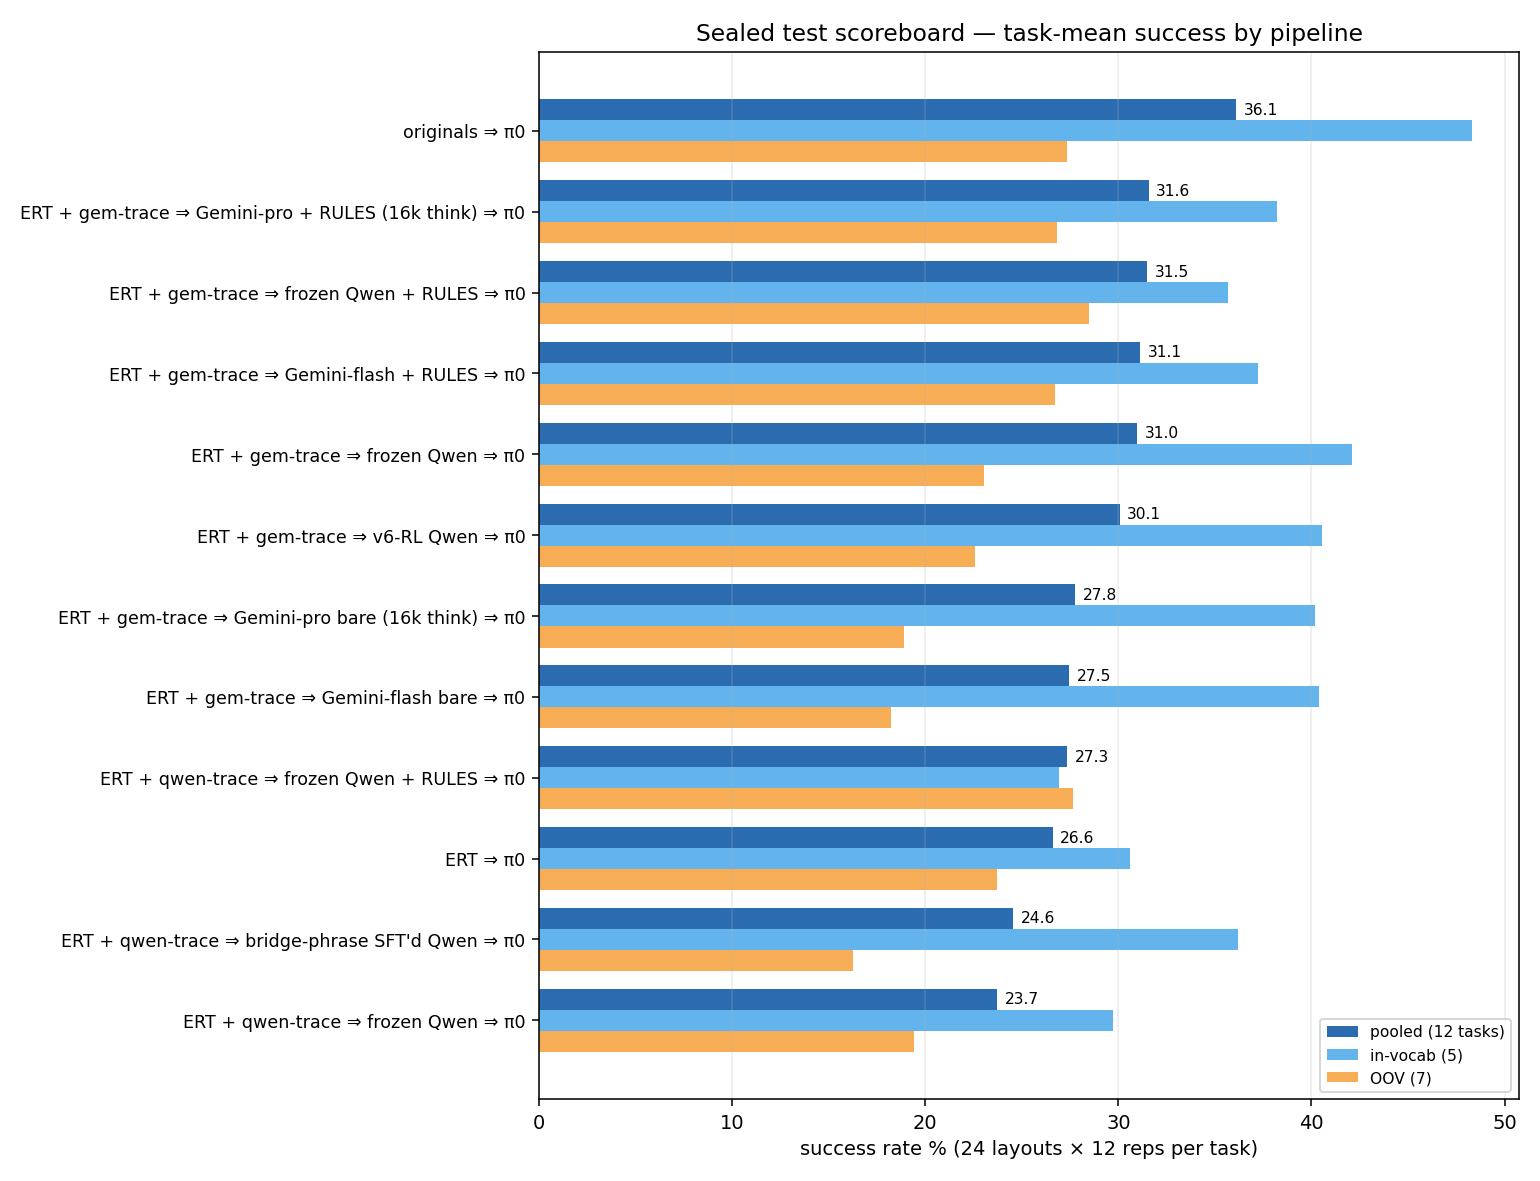
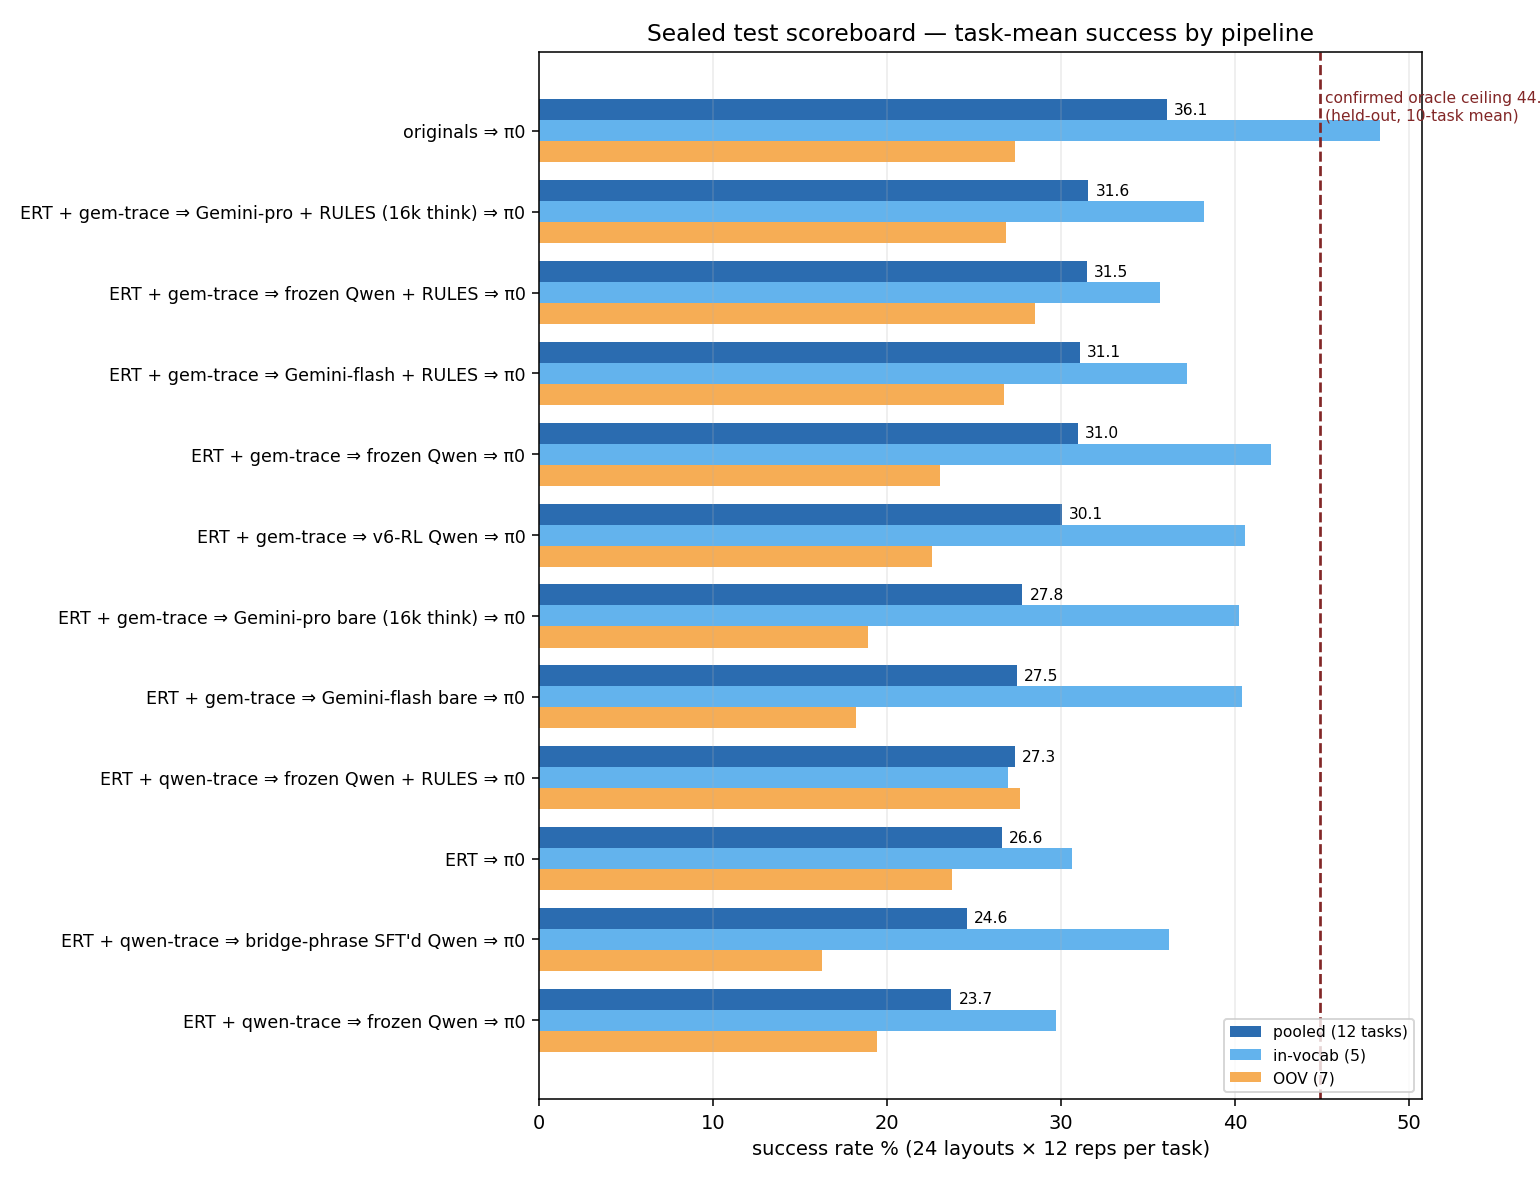
row 14 complete: confirmed headroom 44.9 held-out (nominal 28.3, per-task best arm 38.9)

diff --git a/scripts/headroom_confirmed.py b/scripts/headroom_confirmed.py
@@ -1,0 +1,57 @@
+#!/usr/bin/env python3
+"""Row-14 confirmed headroom: per-task oracle-best (held-out layouts 18-23,
+n=72) vs nominal and per-task best arm on the SAME held-out cells extracted
+from the sealed x12 parquets (deterministic grid => exact comparability).
+Selection happened on layouts 0-17; nothing here was used to pick phrases.
+Writes results/analysis/sealed_headroom_confirmed.json.
+"""
+import glob
+import json
+import math
+
+import pandas as pd
+
+HELD = set(range(18, 24))
+
+legs = pd.concat([pd.read_parquet(f) for f in sorted(glob.glob("results/sealed/*_x12.parquet"))],
+                 ignore_index=True)
+held = legs[legs.episode_id.isin(HELD)]
+arm_rates = held.groupby(["arm", "task"]).success.mean() * 100
+
+rows = []
+for f in sorted(glob.glob("results/search/sealedsearch_*_confirm_results.json")):
+    j = json.load(open(f))
+    task = j["task"]
+    best = max(j["scoreboard"], key=lambda e: e["success_pct"])
+    n = best["n"]
+    p = best["success_pct"] / 100
+    se = 100 * math.sqrt(p * (1 - p) / n)
+    nom = arm_rates.get(("originals", task), float("nan"))
+    per_arm = {a: arm_rates.get((a, task)) for a in held.arm.unique() if a != "originals"}
+    per_arm = {a: v for a, v in per_arm.items() if v == v}
+    ba, bv = max(per_arm.items(), key=lambda kv: kv[1])
+    rows.append({
+        "task": task, "oracle_pct": best["success_pct"], "oracle_se": round(se, 1),
+        "oracle_phrase": best["phrase"], "n": n,
+        "nominal_heldout": round(float(nom), 1),
+        "best_arm": ba, "best_arm_heldout": round(float(bv), 1),
+    })
+
+mean = lambda k: sum(r[k] for r in rows) / len(rows)
+out = {
+    "protocol": "selection layouts 0-17 (n=36); estimation layouts 18-23 (n=72); "
+                "comparators = same held-out cells from sealed x12 parquets",
+    "tasks": rows,
+    "mean_oracle": round(mean("oracle_pct"), 1),
+    "mean_nominal_heldout": round(mean("nominal_heldout"), 1),
+    "mean_best_arm_heldout": round(mean("best_arm_heldout"), 1),
+}
+json.dump(out, open("results/analysis/sealed_headroom_confirmed.json", "w"), indent=1)
+
+print(f"{'task':28s} {'oracle':>10s} {'nominal':>8s} {'best-arm':>9s}")
+for r in rows:
+    t = r["task"].replace("widowx_", "").replace("_clean", "")
+    print(f"{t:28s} {r['oracle_pct']:5.1f}±{r['oracle_se']:3.1f} {r['nominal_heldout']:7.1f} "
+          f"{r['best_arm_heldout']:8.1f}  ({r['best_arm'][:20]})")
+print(f"\n{'MEAN (10 tasks)':28s} {out['mean_oracle']:5.1f}      {out['mean_nominal_heldout']:7.1f} "
+      f"{out['mean_best_arm_heldout']:8.1f}")

diff --git a/EXPERIMENT.md b/EXPERIMENT.md
@@ -1741,3 +1741,21 @@ coke_wheel +13.9, coke_keyboard +9.7 (all OOV). Casualties: orange_juice -11.5
 (OOV — the one anomaly, phrase-level autopsy pending), cube_on_plate -11.1
 (in-vocab tax, same site as flash pair's -11.1 — suspiciously identical, check
 shared phrase choice).
+
+## 2026-07-25 — Row 14 COMPLETE: confirmed oracle headroom (held-out estimation)
+Protocol: selection on layouts 0-17 (n=36/phrase); estimation on virgin layouts
+18-23 (n=72/phrase); comparators = the SAME held-out cells from sealed x12
+parquets (deterministic grid). 10-task means:
+  confirmed oracle      44.9   (per-task adaptive best phrase)
+  per-task best arm     38.9   (itself an oracle-ish comparator: argmax over 12 arms per task)
+  nominal (originals)   28.3
+Headroom read: +6.0pp above even per-task-best-arm selection; +16.6pp above
+nominals — phrasing alone, no weights touched. Ceiling framing stands: phrase
+chosen adaptively per task; not a blind arm.
+Standouts (held-out): pepsi 77.8±4.9 ("place pepsi on plate"); ramekin 61.1±5.7
+(corpus-absence rename); coke_keyboard 47.2 vs best-arm 31.9 (drop "can").
+Winner's-curse cases now visible: eggplant "purple object" 55.6(sel)->40.3(conf);
+small_plate 5.6(sel)->0.0(conf) — floor task, no phrasing rescue.
+Two tasks where search found NOTHING above existing arms/nominal on held-out:
+nut_on_plate (nominal 40.3 > oracle 37.5), carrot_on_sponge (frozen_gemini_trace
+47.2 > oracle 41.7). Chart ceiling line = 44.9.
